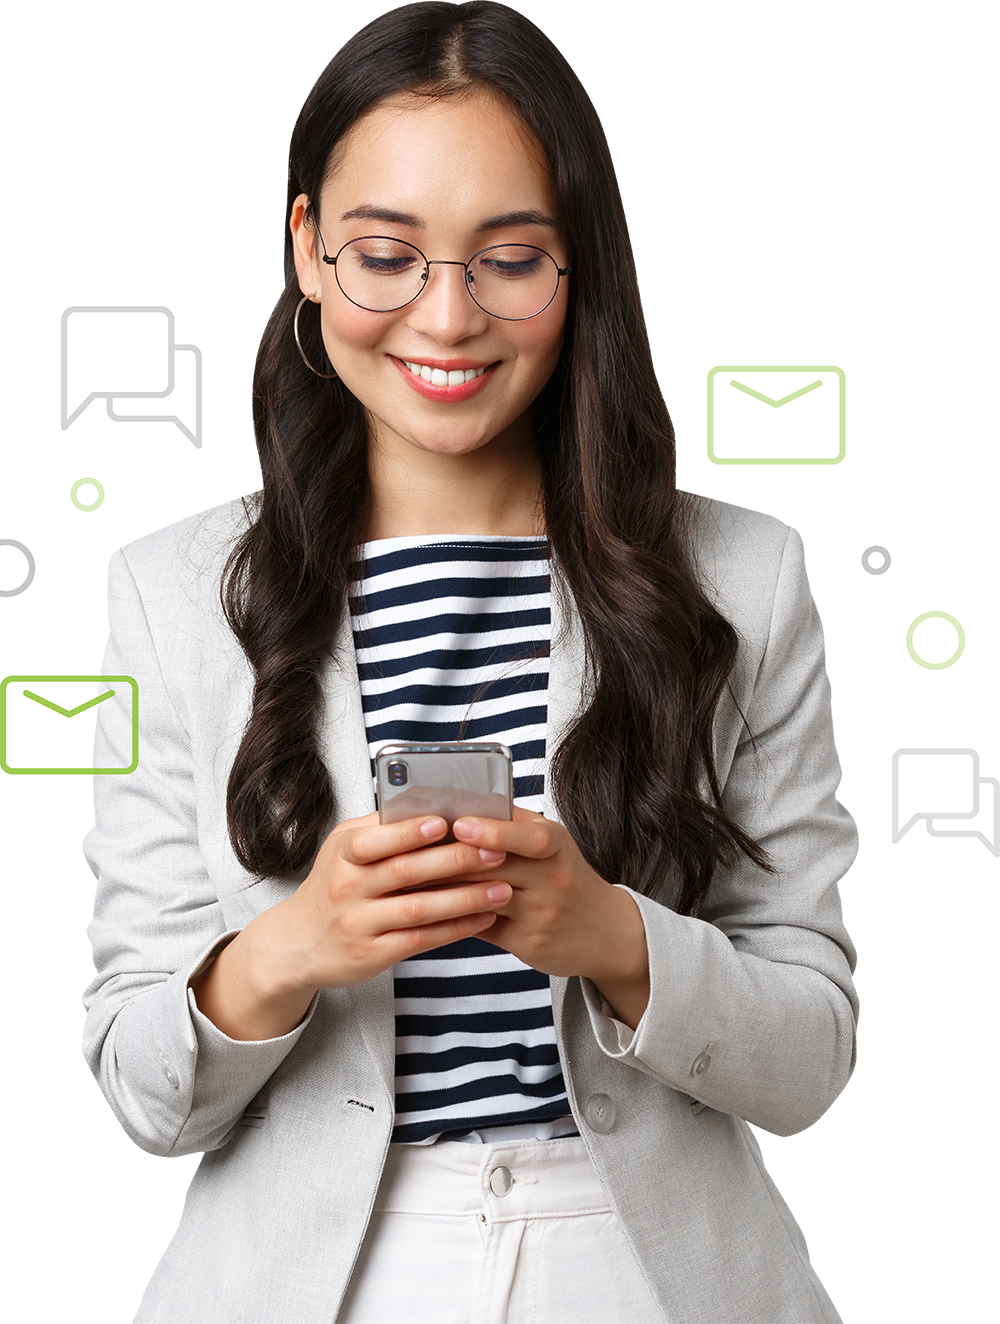
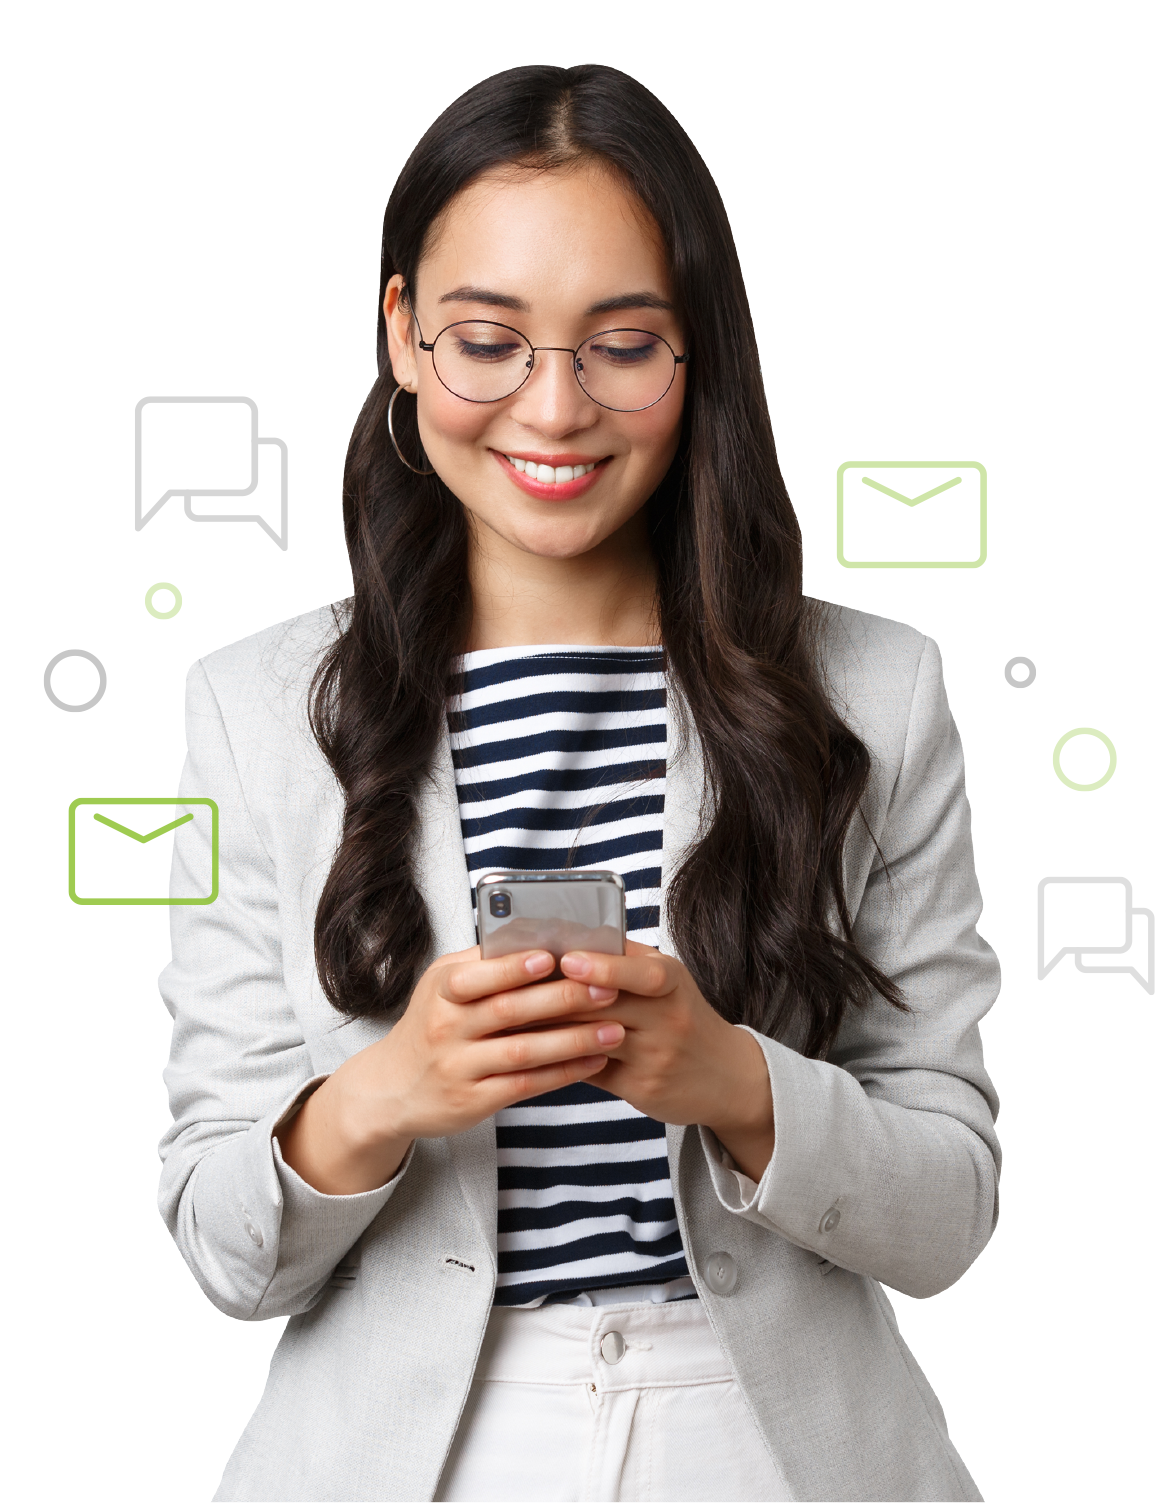
add sec line broadcast

diff --git a/mobilemkt.html b/mobilemkt.html
@@ -631,17 +631,178 @@
         <section id="sms-vote">
             <div class="content-grid">
                 <div class="ms-col-1"></div>
-                <div class="ms-col-2"></div>
+                <div class="ms-col-2">
+                    <div class="crm-grid1">
+                        <div class="ms-col-1">
+                            <div class="center1" data-aos="fade-right" data-aos-anchor="#sms-broadcast" data-aos-anchor-placement="bottom-bottom" data-aos-delay="100">
+                                <font class="textcenter1">
+                                    <font class="title-text4 color5">SMS VOTE </font>
+                                    <font class="title-text4 color1">AND PROMOTION</font>
+                                </font>
+                            </div>
+                            <div class="line-bottom3" data-aos="fade-right" data-aos-anchor="#sms-broadcast" data-aos-anchor-placement="bottom-bottom" data-aos-delay="150"></div>
+                            <div class="mt2 mb4" data-aos="fade-right" data-aos-anchor="#sms-broadcast" data-aos-anchor-placement="bottom-bottom" data-aos-delay="200">
+                                <font class="title-text18 color1 center1">ลุ้นเป็นผู้โชคดีกับกิจกรรมโหวตผ่าน USSD</font>
+                            </div>
+                            <div class="textcenter1 mt1" data-aos="fade-right" data-aos-anchor="#sms-broadcast" data-aos-anchor-placement="bottom-bottom" data-aos-delay="250">
+                                <font class="text-detail4 color1 center1">บริการระบบ SMS Vote สำหรับธุรกิจต่างๆ เพื่อจัดกิจกรรม
+                                    <br class="d-desktop1">แจกรางวัล กิจกรรมการ โหวตการประกวด
+                                </font>
+                            </div>
+                            <div class="social-planning1 center3 ml-mob1 mt1">
+                                <div class="ms-col-1 mr-social">
+                                    <div class="multi-grid2">
+                                        <div class="ms-col-1">
+                                            <div class="d-flex align-items-center justify-content-center" data-aos="fade-right" data-aos-anchor="#sms-broadcast" data-aos-anchor-placement="bottom-bottom" data-aos-delay="300">
+                                                <img class="ic-online1" src="./images/mobile/desktop/icon/ic07.png">
+                                            </div>
+                                        </div>
+                                        <div class="ms-col-2">
+                                            <div class="d-flex align-items-center h100" data-aos="fade-right" data-aos-anchor="#sms-broadcast" data-aos-anchor-placement="bottom-bottom" data-aos-delay="350">
+                                                <font class="text-online5 color1 ml2">เพิ่มรายได้
+                                                    <br class="d-desktop2">ให้ธุรกิจ
+                                                </font>
+                                            </div>
+                                        </div>
+                                    </div>
+                                </div>
+                                <div class="ms-col-2 ml-social">
+                                    <div class="multi-grid2">
+                                        <div class="ms-col-1">
+                                            <div class="d-flex align-items-center justify-content-center" data-aos="fade-right" data-aos-anchor="#sms-broadcast" data-aos-anchor-placement="bottom-bottom" data-aos-delay="400">
+                                                <img class="ic-online1" src="./images/mobile/desktop/icon/ic09.png">
+                                            </div>
+                                        </div>
+                                        <div class="ms-col-2">
+                                            <div class="d-flex align-items-center h100" data-aos="fade-right" data-aos-anchor="#sms-broadcast" data-aos-anchor-placement="bottom-bottom" data-aos-delay="450">
+                                                <font class="text-online5 color1 ml2">ไม่จำกัดจำนวน
+                                                    <br class="d-desktop2">การร่วมโหวต
+                                                </font>
+                                            </div>
+                                        </div>
+                                    </div>
+                                </div>
+                            </div>
+                            <div class="social-planning1 center3 ml-mob1 mt2">
+                                <div class="ms-col-1 mr-social">
+                                    <div class="multi-grid2">
+                                        <div class="ms-col-1">
+                                            <div class="d-flex align-items-center justify-content-center" data-aos="fade-right" data-aos-anchor="#sms-broadcast" data-aos-anchor-placement="bottom-bottom" data-aos-delay="300">
+                                                <img class="ic-online1" src="./images/mobile/desktop/icon/ic08.png">
+                                            </div>
+                                        </div>
+                                        <div class="ms-col-2">
+                                            <div class="d-flex align-items-center h100" data-aos="fade-right" data-aos-anchor="#sms-broadcast" data-aos-anchor-placement="bottom-bottom" data-aos-delay="350">
+                                                <font class="text-online5 color1 ml2">โหวตได้ตลอด
+                                                    <br class="d-desktop2">24 ชั่วโมง
+                                                </font>
+                                            </div>
+                                        </div>
+                                    </div>
+                                </div>
+                                <div class="ms-col-2 ml-social">
+                                    <div class="multi-grid2">
+                                        <div class="ms-col-1">
+                                            <div class="d-flex align-items-center justify-content-center" data-aos="fade-right" data-aos-anchor="#sms-broadcast" data-aos-anchor-placement="bottom-bottom" data-aos-delay="400">
+                                                <img class="ic-online1" src="./images/mobile/desktop/icon/ic10.png">
+                                            </div>
+                                        </div>
+                                        <div class="ms-col-2">
+                                            <div class="d-flex align-items-center h100" data-aos="fade-right" data-aos-anchor="#sms-broadcast" data-aos-anchor-placement="bottom-bottom" data-aos-delay="450">
+                                                <font class="text-online5 color1 ml2">ช่องทางการจัดกิจกรรม
+                                                    <br class="d-desktop2">เพิ่มลูกค้ากลุ่มใหม่
+                                                </font>
+                                            </div>
+                                        </div>
+                                    </div>
+                                </div>
+                            </div>
+                        </div>
+                        <div class="ms-col-2">
+                            <div class="d-flex align-items-center justify-content-end" data-aos="fade-left" data-aos-anchor="#sms-broadcast" data-aos-anchor-placement="bottom-bottom" data-aos-delay="300">
+                                <img class="icmob-03 d-mobile" src="./images/mobile/desktop/image/im03.png">
+                            </div>
+                            <div class="d-flex align-items-center justify-content-end" data-aos="fade-left" data-aos-anchor="#sms-broadcast" data-aos-anchor-placement="bottom-bottom" data-aos-delay="300">
+                                <img class="icmob-02 bouncing-item d-mobile" src="./images/mobile/desktop/image/im02.png">
+                            </div>
+                        </div>
+                    </div>
+                </div>
                 <div class="ms-col-3"></div>
             </div>
+            <img class="icmob-03 d-desktop" src="./images/mobile/desktop/image/im03.png" data-aos="fade-left" data-aos-anchor="#sms-broadcast" data-aos-anchor-placement="bottom-bottom" data-aos-delay="300">
+            <img class="icmob-02 bouncing-item d-desktop" src="./images/mobile/desktop/image/im02.png" data-aos="fade-left" data-aos-anchor="#sms-broadcast" data-aos-anchor-placement="bottom-bottom" data-aos-delay="400">
         </section>
 <!-- ----------------------------------------------------------------Line Broadcast------------------------------------------------------- -->
         <section id="line-broadcast">
             <div class="content-grid">
                 <div class="ms-col-1"></div>
-                <div class="ms-col-2"></div>
+                <div class="ms-col-2">
+                    <div class="crm-grid1">
+                        <div class="ms-col-1">
+                            <div class="d-flex align-items-center justify-content-center" data-aos="fade-right" data-aos-anchor="#otp" data-aos-anchor-placement="bottom-bottom" data-aos-delay="100">
+                                <img class="icmob-05 d-mobile" src="./images/mobile/desktop/image/im01.png">
+                            </div>
+                        </div>
+                        <div class="ms-col-2">
+                            <div class="center1" data-aos="fade-left" data-aos-anchor="#otp" data-aos-anchor-placement="bottom-bottom" data-aos-delay="150">
+                                <font class="textcenter1">
+                                    <font class="title-text4 color5">LIME BROADCAST </font>
+                                    <font class="title-text4 color1">MESSAGE</font>
+                                </font>
+                            </div>
+                            <div class="line-bottom3" data-aos="fade-left" data-aos-anchor="#otp" data-aos-anchor-placement="bottom-bottom" data-aos-delay="200"></div>
+                            <div class="mt2 mb4" data-aos="fade-left" data-aos-anchor="#otp" data-aos-anchor-placement="bottom-bottom" data-aos-delay="250">
+                                <font class="title-text18 color1 center1">ส่งข้อมูลหรือโปรโมชั่นพิเศษ
+                                    <br>ไปยังลูกค้าผ่านทางไลน์
+                                </font>
+                            </div>
+                            <div class="syl-box7">
+                                <div class="textcenter1 mt1" data-aos="fade-left" data-aos-anchor="#otp" data-aos-anchor-placement="bottom-bottom" data-aos-delay="300">
+                                    <font class="text-detail4 color1">บรอดแคสต์ข้อมูลส่งเสริมการขาย ในรูปแบบข้อความ รูปภาพ 
+                                        <br class="d-desktop1">VDO และ Card Message ไปยังผู้ติดตามร้านค้าทั้งหมดใน Line OA
+                                        <br class="d-desktop1">หรือบรอดแคสต์แบบระบุกลุ่มเป้าหมายได้ เพื่อสร้างประสบการณ์
+                                        <br class="d-desktop1">ที่ดีให้แก่ลูกค้า
+                                    </font>
+                                </div>
+                                <div class="digi-grid1 mt2 center1">
+                                    <div class="ms-col-1 mr3-mob">
+                                        <div class="d-flex align-items-center" data-aos="fade-left" data-aos-anchor="#otp" data-aos-anchor-placement="bottom-bottom" data-aos-delay="350">
+                                            <img class="ic04 mb4" src="./images/mobile/desktop/icon/ic16.png">
+                                        </div>
+                                        <div class="d-flex align-items-center" data-aos="fade-left" data-aos-anchor="#otp" data-aos-anchor-placement="bottom-bottom" data-aos-delay="400">
+                                            <font class="text-detail1 color1 mt4">กระตุ้นยอดขาย</font>
+                                        </div>
+                                    </div>
+                                    <div class="ms-col-2 mr3-mob">
+                                        <div class="d-flex align-items-center" data-aos="fade-left" data-aos-anchor="#otp" data-aos-anchor-placement="bottom-bottom" data-aos-delay="450">
+                                            <img class="ic04 mb4" src="./images/mobile/desktop/icon/ic17.png">
+                                        </div>
+                                        <div class="d-flex align-items-center mt4" data-aos="fade-left" data-aos-anchor="#otp" data-aos-anchor-placement="bottom-bottom" data-aos-delay="500">
+                                            <font class="text-detail1 color1">เข้าถึงผู้ที่สนใจ
+                                                <br>แบรนด์คุณ 100%
+                                            </font>
+                                        </div>
+                                    </div>
+                                    <div class="ms-col-3">
+                                        <div class="d-flex align-items-center" data-aos="fade-left" data-aos-anchor="#otp" data-aos-anchor-placement="bottom-bottom" data-aos-delay="550">
+                                            <img class="ic04 mb4" src="./images/mobile/desktop/icon/ic19.png">
+                                        </div>
+                                        <div class="d-flex align-items-center mt4" data-aos="fade-left" data-aos-anchor="#otp" data-aos-anchor-placement="bottom-bottom" data-aos-delay="600">
+                                            <font class="text-detail1 color1">สร้างคอนเทนต์ในแบบ
+                                                <br>ของแบรนด์คุณ
+                                            </font>
+                                        </div>
+                                    </div>
+                                </div>
+                            </div>
+                        </div>
+
+                    </div>
+                </div>
                 <div class="ms-col-3"></div>
             </div>
+            <img class="icmob-01 d-desktop" src="./images/mobile/desktop/image/im01.png" data-aos="fade-left" data-aos-anchor="#otp" data-aos-anchor-placement="bottom-bottom" data-aos-delay="150">
         </section>
 <!-- ------------------------------------------------------------------Contact Us--------------------------------------------------------- -->
 <section id="contact">

diff --git a/css/digistyle.css b/css/digistyle.css
@@ -216,6 +216,9 @@ body>sec {
 .mt-mobintro{
     margin-top: 20%;
 }
+.mt-mobsms{
+    margin-top: 15%;
+}
 .mt2{
     margin-top: 3rem;
 }
@@ -1534,7 +1537,7 @@ body>sec {
     background-size: 100% 100%;
     width: 100%;
     height: auto;
-    padding: 3% 0 3% 0;
+    padding: 3% 0 0 0;
 }
 #line-broadcast {
     background-image: url(../images/mobile/desktop/bg/bg06.jpg);
@@ -1542,7 +1545,7 @@ body>sec {
     background-size: 100% 100%;
     width: 100%;
     height: auto;
-    padding: 3% 0 3% 0;
+    padding: 3% 0 8% 0;
 }
 .ic-mobMKT1 {
     position: relative;
@@ -1648,6 +1651,43 @@ body>sec {
     left: 0;
     margin-bottom: 0%;
     margin-left: 11%;
+}
+.icmob-02 {
+    position: relative;
+    max-width: 100%;
+    width: 100%;
+    height: auto;
+    object-fit: contain;
+    bottom: 0;
+    right: 0;
+}
+.icmob-03 {
+    position: absolute;
+    max-width: 35%;
+    height: auto;
+    object-fit: contain;
+    bottom: 0;
+    right: 0;
+    margin-right: 10%;
+    margin-bottom: 2%;
+}
+.icmob-01 {
+    position: absolute;
+    max-width: 33%;
+    height: auto;
+    object-fit: contain;
+    bottom: 0;
+    left: 0;
+    margin-left: 12%;
+}
+.syl-box7 {
+    display: block;
+    background-color: #b5d74d;
+    width: auto;
+    height: auto;
+    padding: 20px 0;
+    border: 1px solid #b5d74d;
+    border-radius: 0 15px 15px 0;
 }
 /* --------------------------End Style Mobile Page------------------------- */
 
@@ -2082,6 +2122,9 @@ body>sec {
     .mt1 {
         margin-top: 3rem;
     }
+    .mt-mobsms{
+        margin-top: 5%;
+    }
     .mt-onlintro{
         margin-top: 1rem;
     }
@@ -2438,6 +2481,23 @@ body>sec {
         left: 0;
         margin-bottom: -5%;
         margin-left: 24%;
+    }
+    .icmob-02 {
+        position: relative;
+        max-width: 115%;
+        width: 115%;
+        height: auto;
+        object-fit: contain;
+        margin-right: -7%;
+    }
+    .icmob-03 {
+        position: relative;
+        max-width: 40%;
+        height: auto;
+        object-fit: contain;
+        margin-top: 5%;
+        margin-right: 32%;
+        margin-bottom: -20%;
     }
     /* --------------------------End Style Mobile Page------------------------- */
 }
